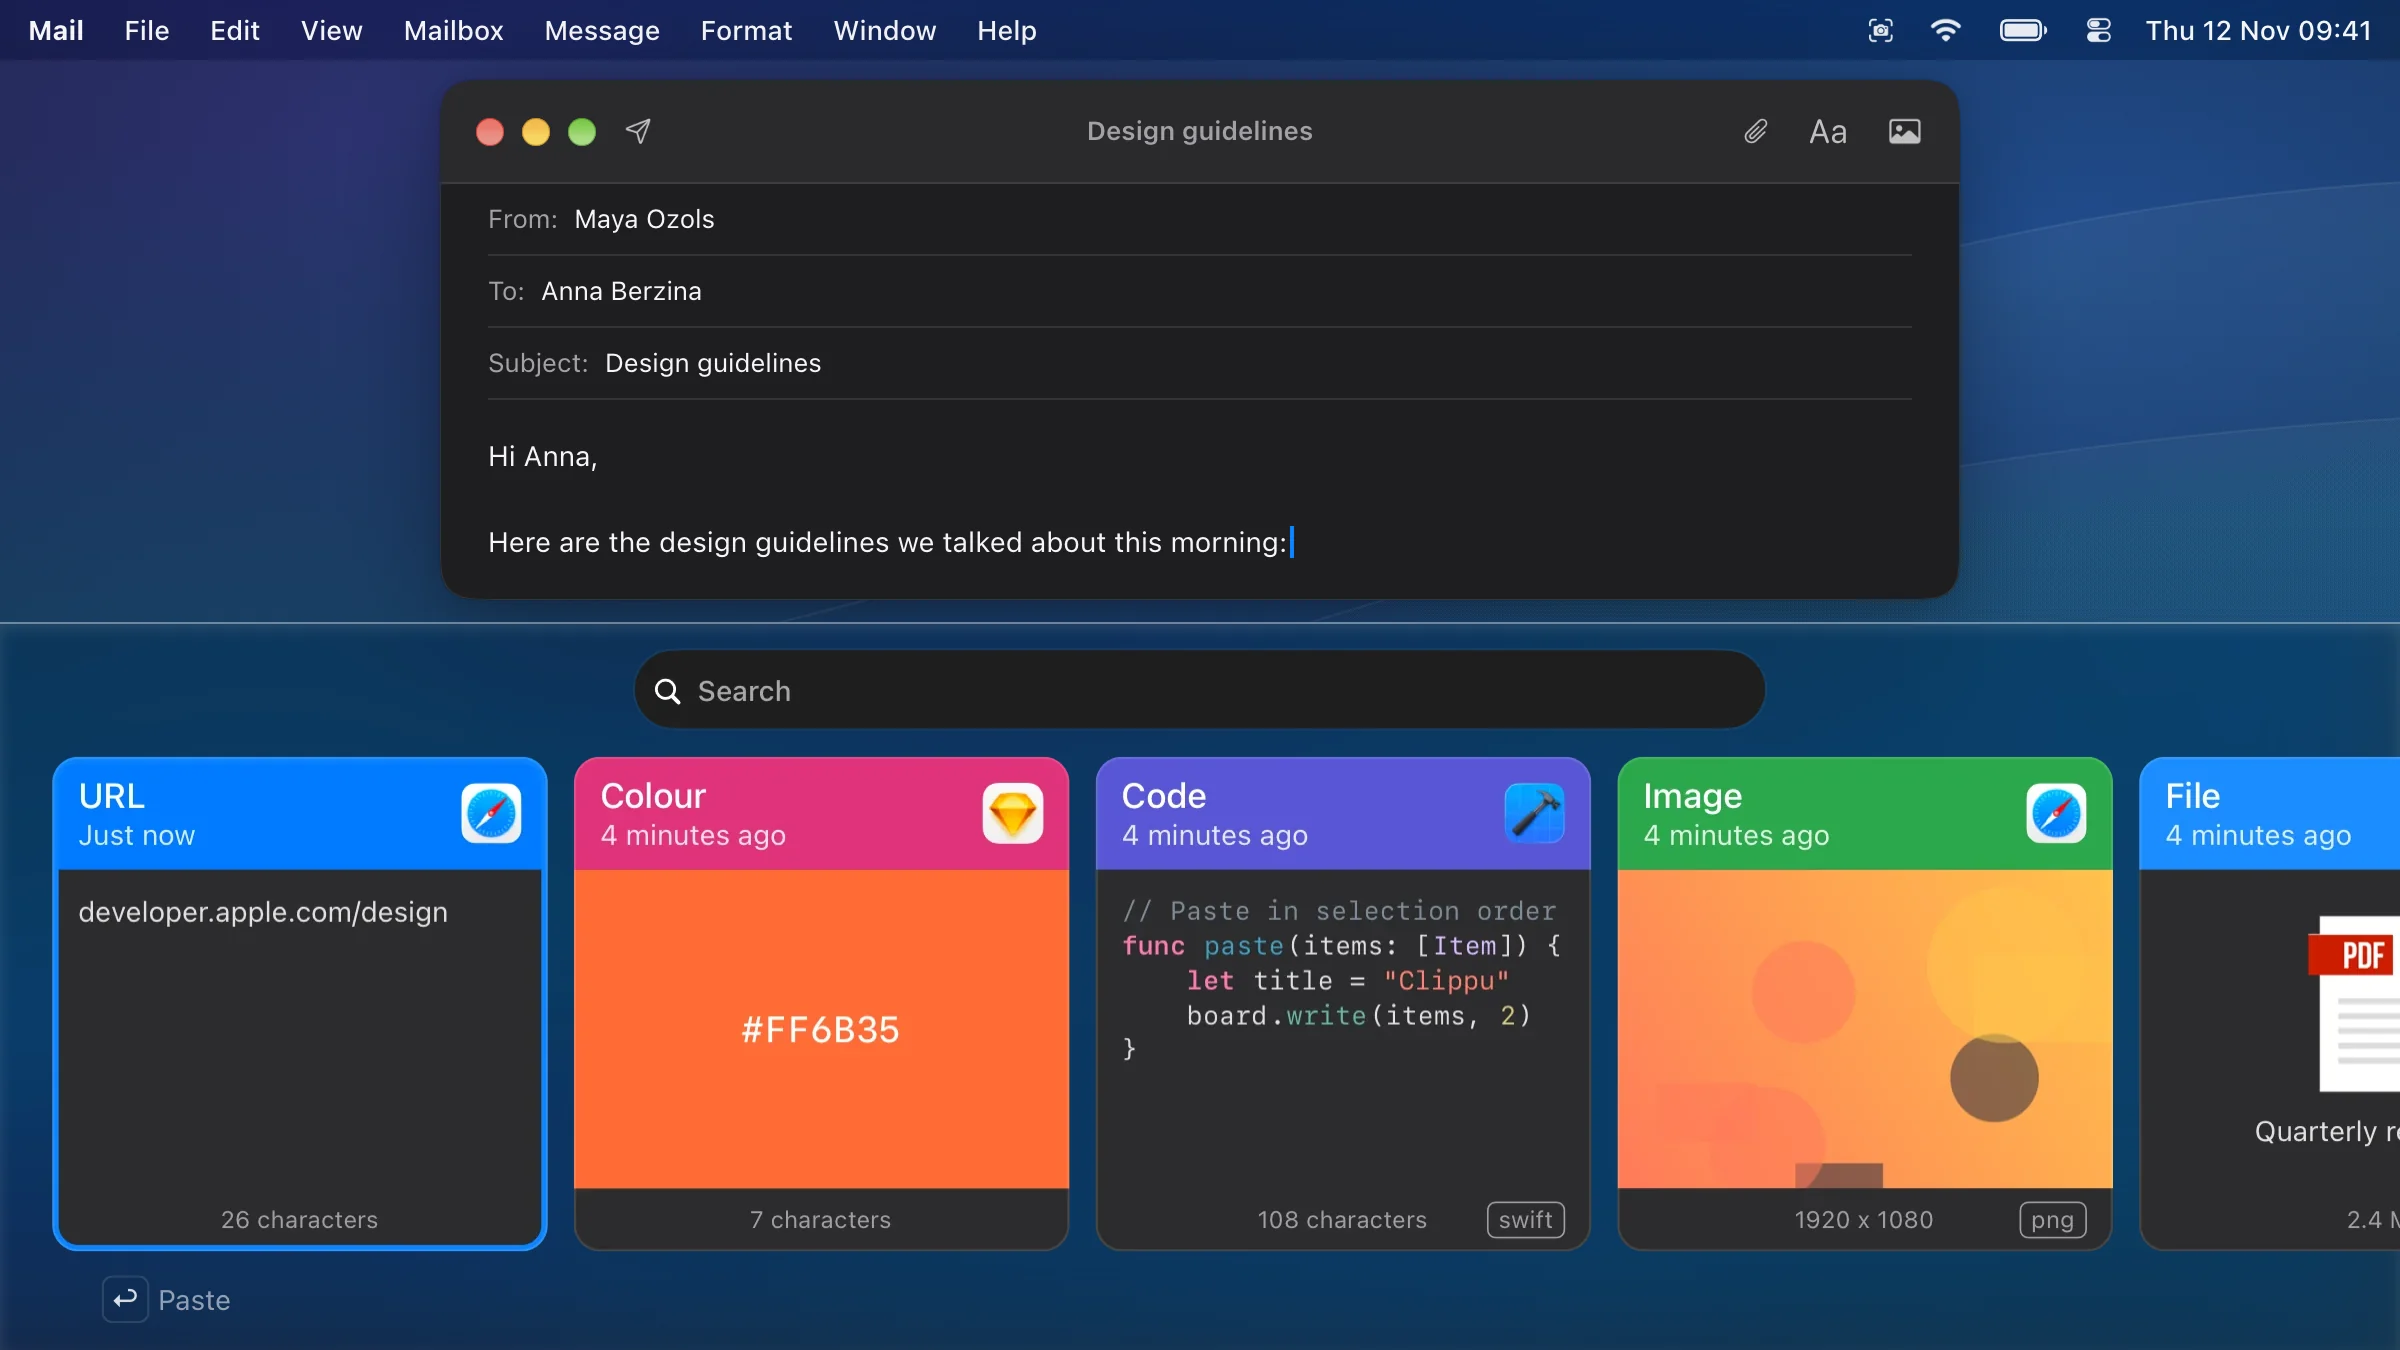
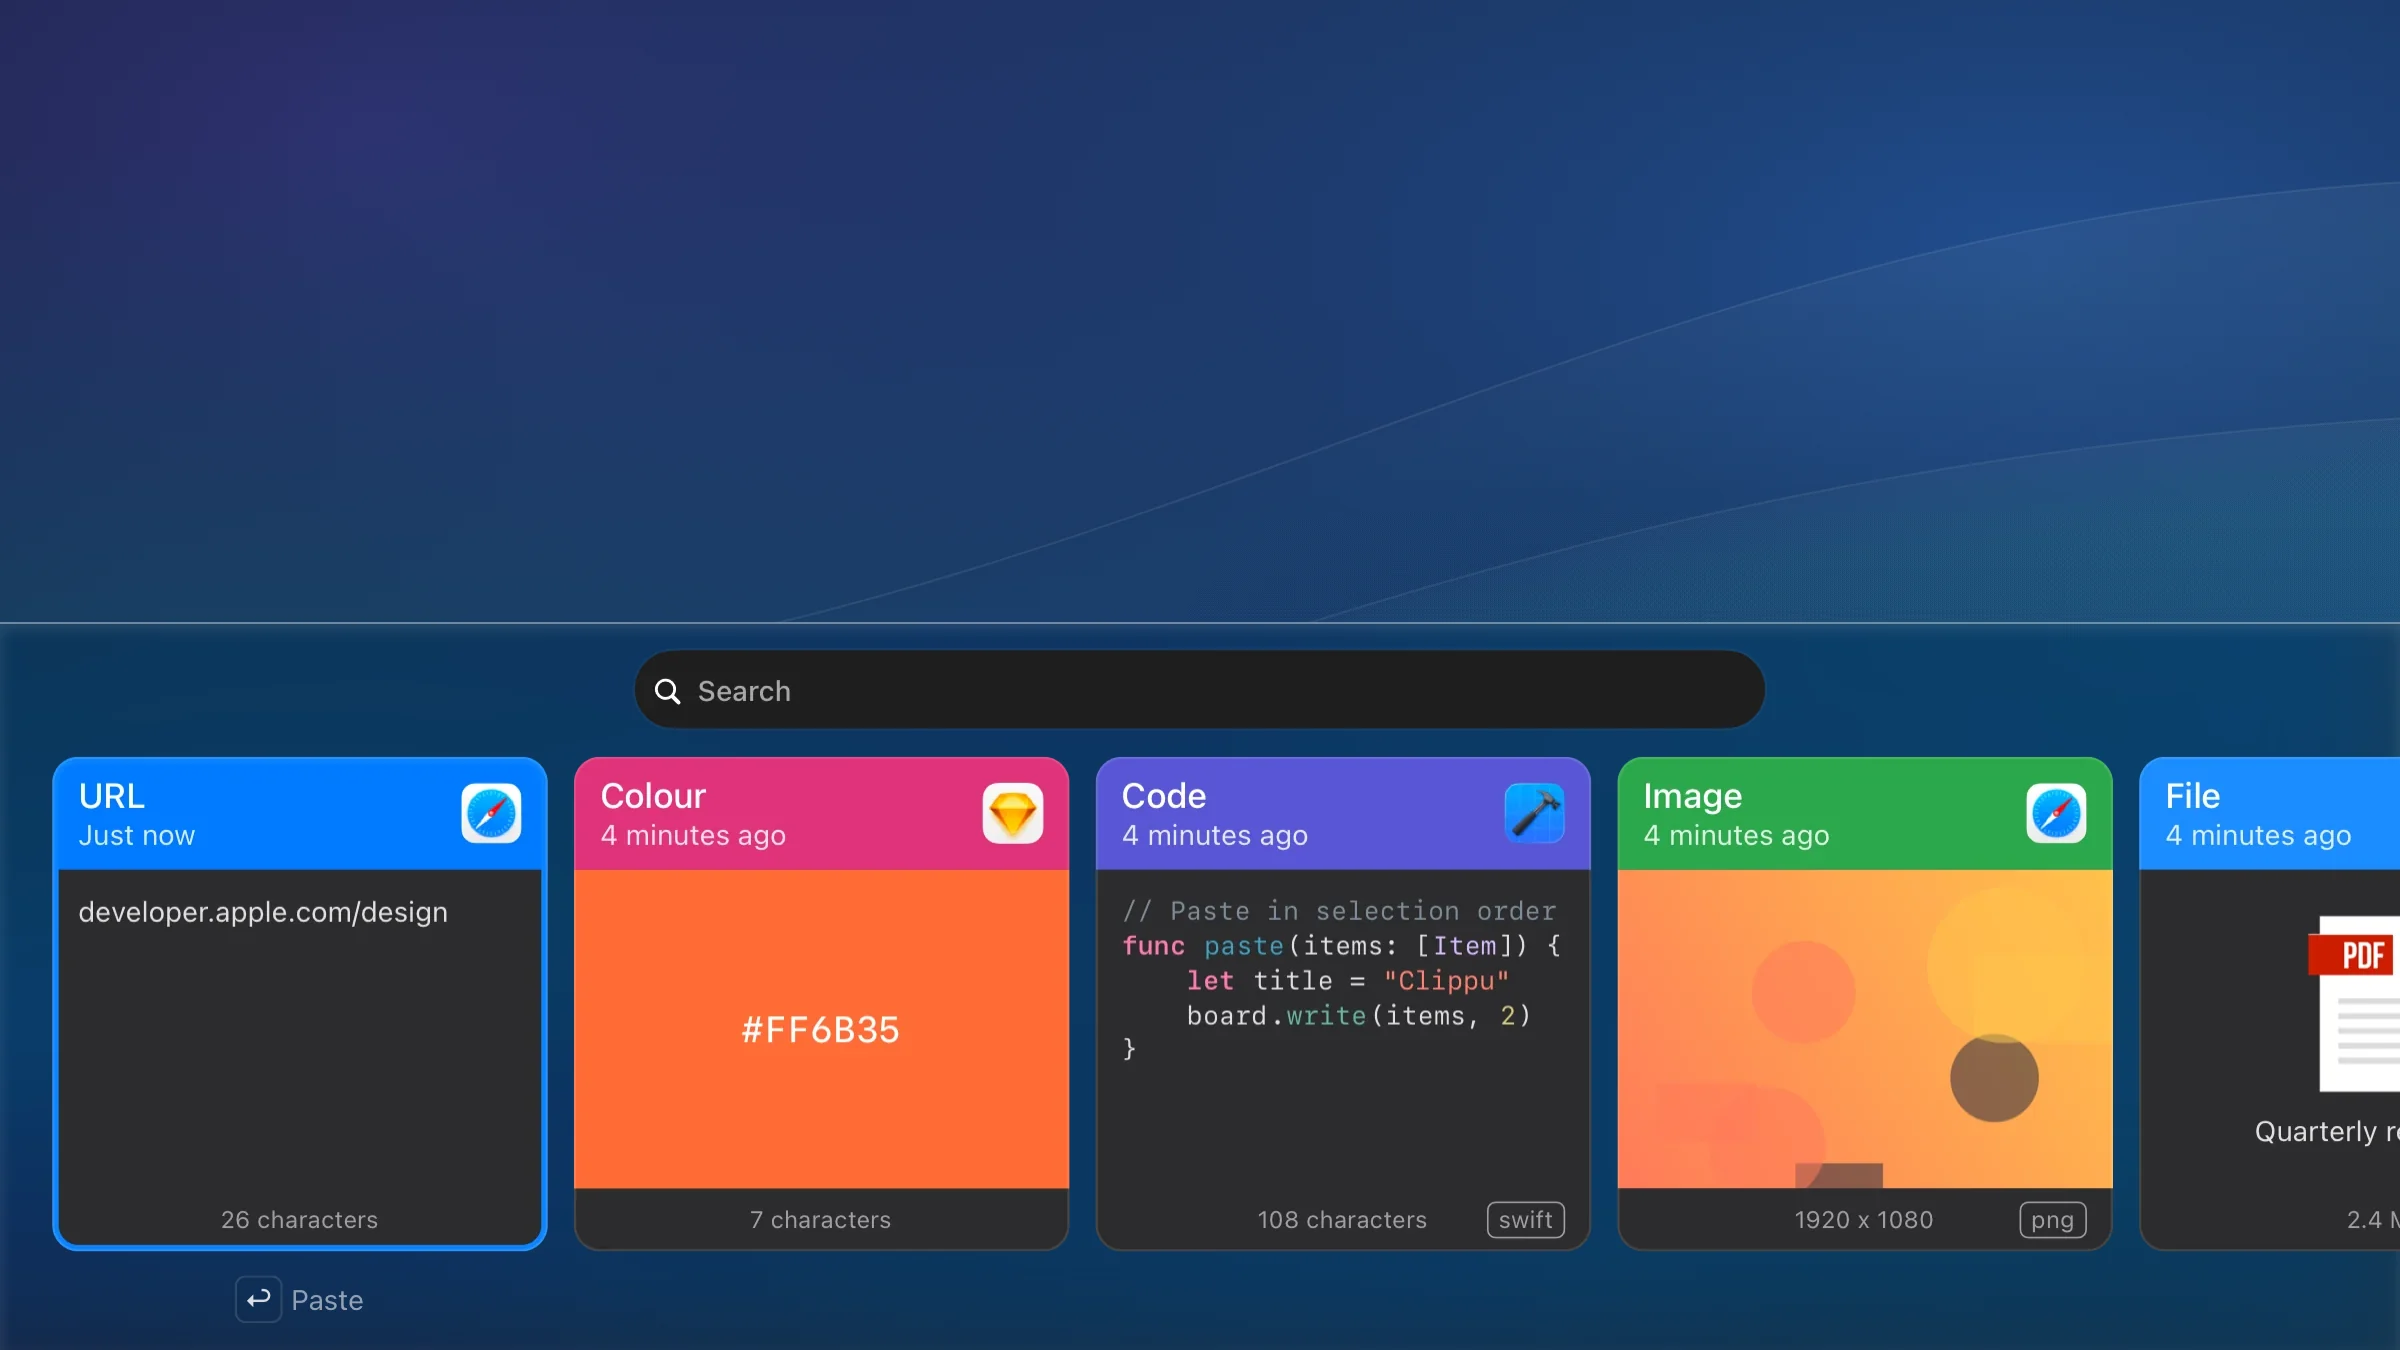
feat(site): Clippu Building tag and tagline, Bukku countdown, struck price and App Store badge
Clippu scenes without menu bar and email; browser scene shows only the order field.

Changed region(s): [[0.0, 0.0, 1.0, 0.4667]]

diff --git a/assets/css/21-buy.css b/assets/css/21-buy.css
@@ -22,13 +22,63 @@
     content: "·";
   }
 
-  .buy-app-store {
-    margin-top: var(--space-s);
-    font-size: var(--text-m);
+  .buy-was {
+    margin-inline-end: var(--space-2xs);
+    opacity: 0.6;
+    font-weight: var(--weight-regular);
+    text-decoration-thickness: 2px;
   }
 
-  .buy-app-store a {
-    text-decoration: underline;
+  .buy-countdown {
+    display: inline-flex;
+    align-items: center;
+    gap: var(--space-xs);
+    color: var(--colour-warning);
+    font-variant-numeric: tabular-nums;
+    font-weight: var(--weight-semibold);
+  }
+
+  .buy-countdown-dot {
+    width: 0.5rem;
+    height: 0.5rem;
+    border-radius: var(--radius-full);
+    background: var(--colour-warning);
+    animation: buy-pulse 1.4s ease-in-out infinite;
+  }
+
+  @keyframes buy-pulse {
+    0%,
+    100% {
+      opacity: 1;
+      transform: scale(1);
+    }
+
+    50% {
+      opacity: 0.35;
+      transform: scale(0.7);
+    }
+  }
+
+  @media (prefers-reduced-motion: reduce) {
+    .buy-countdown-dot {
+      animation: none;
+    }
+  }
+
+  .buy-app-store {
+    display: flex;
+    flex-direction: column;
+    align-items: center;
+    gap: var(--space-xs);
+    margin-top: var(--space-l);
+    color: var(--colour-text-secondary);
+    font-size: var(--text-s);
+  }
+
+  .buy-app-store img {
+    display: block;
+    height: 2.75rem;
+    width: auto;
   }
 
   .buy-requirement {

diff --git a/layouts/_partials/app/buy.html b/layouts/_partials/app/buy.html
@@ -1,8 +1,15 @@
 {{ with .Params.buy }}
   <div class="hero-actions buy-actions">
     {{ with .checkout }}
+      {{ $buy := $.Params.buy }}
+      {{ $offer := and $buy.offer_price $buy.offer_ends (time.Now.Before (time.AsTime $buy.offer_ends)) }}
       <a class="button" href="{{ . }}"
-        >Buy for €{{ lang.FormatNumber 2 ($.Params.buy.offer_price | default $.Params.buy.price) }}</a
+        >Buy for
+        {{ if $offer }}
+          <s class="buy-was">€{{ lang.FormatNumber 2 $buy.price }}</s> €{{ lang.FormatNumber 2 $buy.offer_price }}
+        {{ else }}
+          €{{ lang.FormatNumber 2 $buy.price }}
+        {{ end }}</a
       >
     {{ end }}
     {{ with .download }}
@@ -10,7 +17,16 @@
     {{ end }}
   </div>
   {{ partial "app/offer.html" . }}
-  {{ with .app_store }}<p class="buy-app-store"><a href="{{ . }}">Buy in App Store</a></p>{{ end }}
+  {{ with .app_store }}
+    <div class="buy-app-store">
+      <p>Prefer the App Store version?</p>
+      {{ with resources.Get "images/app-store-badge-black.svg" }}
+        <a href="{{ $.Params.buy.app_store }}"
+          ><img src="{{ .RelPermalink }}" width="120" height="40" alt="Download on the App Store"
+        /></a>
+      {{ end }}
+    </div>
+  {{ end }}
   {{ with $.Params.requirement }}<p class="buy-requirement">{{ . }}</p>{{ end }}
   {{ partial "app/brew.html" .brew }}
 {{ end }}

diff --git a/assets/js/countdown.ts b/assets/js/countdown.ts
@@ -1,0 +1,19 @@
+const pad = (value: number): string => String(value).padStart(2, "0");
+
+for (const element of document.querySelectorAll<HTMLElement>("[data-countdown]")) {
+  const ends = new Date(element.dataset["countdown"] ?? "").getTime();
+  let timer = 0;
+  const tick = (): void => {
+    const left = Math.max(0, ends - Date.now());
+    const days = Math.floor(left / 86_400_000);
+    const hours = Math.floor(left / 3_600_000) % 24;
+    const minutes = Math.floor(left / 60_000) % 60;
+    const seconds = Math.floor(left / 1000) % 60;
+    element.textContent = `${String(days)}d ${pad(hours)}:${pad(minutes)}:${pad(seconds)} left`;
+    if (left === 0) {
+      window.clearInterval(timer);
+    }
+  };
+  timer = window.setInterval(tick, 1000);
+  tick();
+}

diff --git a/layouts/_partials/app/offer.html b/layouts/_partials/app/offer.html
@@ -4,6 +4,15 @@
       >{{ math.Round (mul (sub 1 (div .offer_price .price)) 100) }}% off until
       {{ (time.AsTime .offer_ends).Format "2 January" }}</strong
     >
+    <span class="buy-countdown"
+      ><span class="buy-countdown-dot" aria-hidden="true"></span
+      ><span data-countdown="{{ (time.AsTime .offer_ends).Format "2006-01-02T15:04:05Z07:00" }}"
+        >Ends {{ (time.AsTime .offer_ends).Format "2 January" }}</span
+      ></span
+    >
     {{ with .devices }}<span>{{ . }} Macs included</span>{{ end }}
   </p>
+{{ end }}
+{{ with resources.Get "js/countdown.ts" | js.Build (dict "minify" true) | fingerprint }}
+  <script src="{{ .RelPermalink }}" integrity="{{ .Data.Integrity }}" defer></script>
 {{ end }}

diff --git a/tools/og.ts b/tools/og.ts
@@ -40,7 +40,9 @@ function pages(folder: string): Page[] {
 const force = process.env["FORCE"] === "1";
 const previous = existsSync(MANIFEST) ? (JSON.parse(readFileSync(MANIFEST, "utf8")) as Record<string, string>) : {};
 const all = pages(PUBLIC).sort((a, b) => a.slug.localeCompare(b.slug));
-const changed = all.filter((page) => force || previous[page.slug] !== page.hash || !existsSync(join(OUT, `${page.slug}.png`)));
+const changed = all.filter(
+  (page) => force || previous[page.slug] !== page.hash || !existsSync(join(OUT, `${page.slug}.png`)),
+);
 mkdirSync(OUT, { recursive: true });
 const keep = new Set(all.map((page) => `${page.slug}.png`));
 for (const file of readdirSync(OUT).filter((entry) => !keep.has(entry))) {

diff --git a/layouts/_partials/app/hero.html b/layouts/_partials/app/hero.html
@@ -16,6 +16,9 @@
     {{ if .Params.buy }}
       {{ partial "app/buy.html" . }}
     {{ else }}
+      {{ with .Params.status }}
+        <p class="hero-status"><span class="app-card-status app-card-status-{{ . }}">{{ . | humanize }}</span></p>
+      {{ end }}
       <div class="hero-actions">
         {{ range .Params.links }}
           {{ if .url }}

diff --git a/assets/css/10-hero.css b/assets/css/10-hero.css
@@ -28,6 +28,15 @@
     line-height: var(--leading-tight);
   }
 
+  .hero-status {
+    margin-top: var(--space-m);
+  }
+
+  .hero-status .app-card-status {
+    margin-top: 0;
+    font-size: var(--text-s);
+  }
+
   .hero-tagline {
     max-width: 36rem;
     margin: var(--space-s) auto 0;

diff --git a/content/apps/clippu/_index.md b/content/apps/clippu/_index.md
@@ -4,16 +4,13 @@ draft = false
 weight = 2
 status = "building"
 category = "Clipboard manager"
-tagline = "Your clipboard history, one keystroke away"
-description = "Clippu keeps the text, links, images and files you copy, and pastes any of them back from the keyboard. Offline, with no account."
+tagline = "Find anything you copied. Privately."
+description = "Clippu keeps the text, links, images and files you copy on your Mac and finds any of them as you type. No network, no account."
 keywords = ["macOS", "clipboard", "clipboard manager", "clipboard history", "paste", "productivity", "swift"]
 icon = "images/icon_1024x1024.png"
 hero = "images/website-hero_2400x1350.webp"
 heroAlt = "Writing an email in Mail with the Clippu bar open below it and a link card ready to paste"
-requirement = "In development. Requires macOS 26 or later"
-links = [
-  { name = "Coming soon" },
-]
+requirement = "Requires macOS 26 or later"
 anchors = [
   { name = "Features", id = "every-kind-of-copy" },
   { name = "Shortcuts", id = "shortcuts" },
